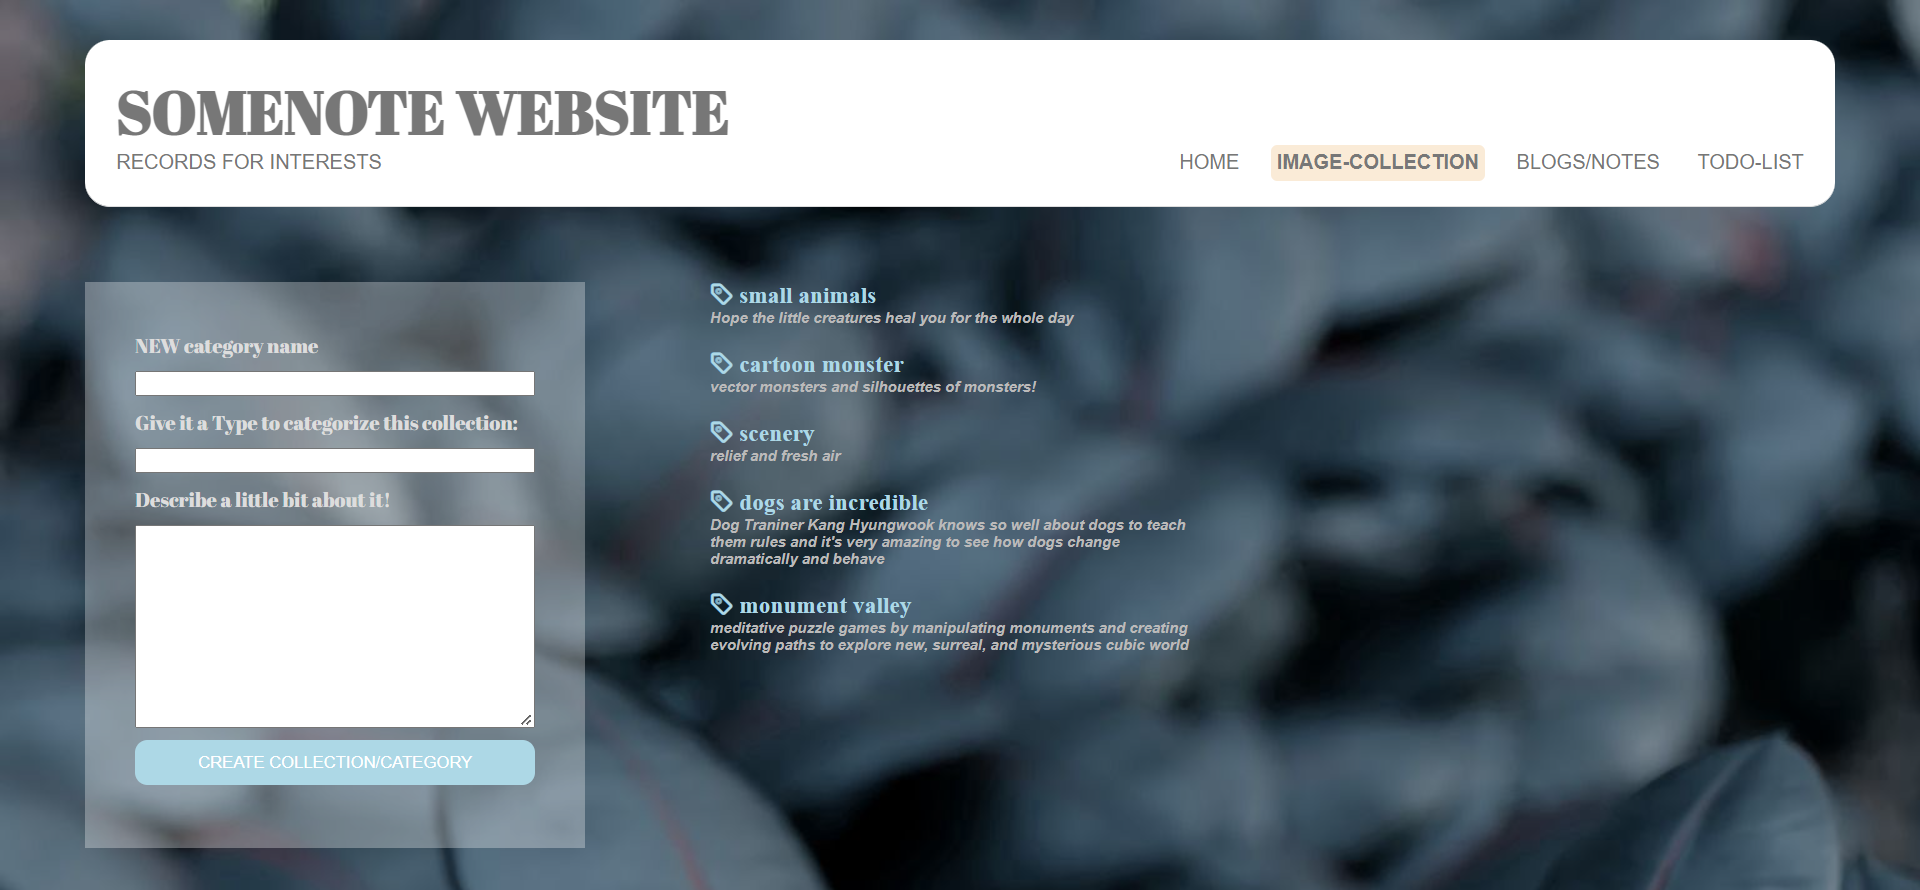
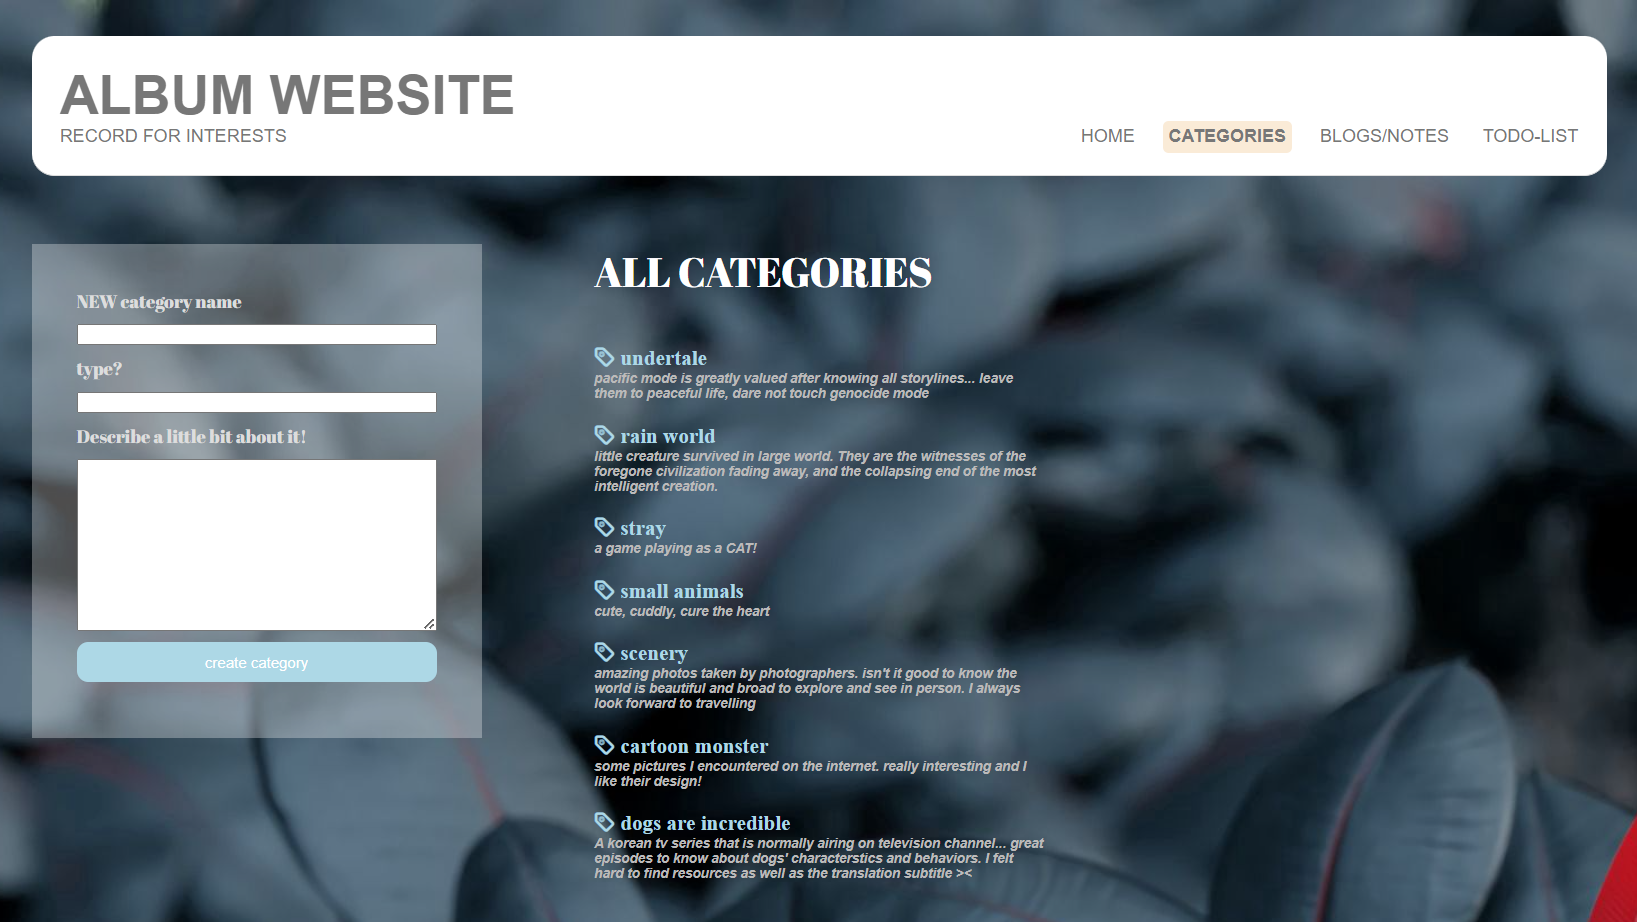
Updated

diff --git a/2023 Album Website/controllers/indexController.js b/2023 Album Website/controllers/indexController.js
@@ -145,6 +145,89 @@ const index_get = (req, res) => {
     .catch(err => console.log(err))
 }
 
+const specific_index_get = (req, res) => {
+    const tagName = req.params.tagName;
+    const typesArr = [];
+    const namesArr = [];
+
+    fetch(weatherURL, {
+        method: 'GET',
+    })
+    .then(response => response.json())
+    .then(data => {
+        let weaCode;
+        let tempCode;
+        let weatherNums = data['hourly'].weathercode;
+        let tempNums = data['hourly'].temperature_2m;
+        let now = new Date();
+        let hour = now.getHours();
+
+        // weather code adapted
+        if(hour==24){ 
+            weaCode = weatherNums[hour-1];
+            tempCode = tempNums[hour-1];
+        }
+        else{ 
+            weaCode = weatherNums[hour];
+            tempCode = tempNums[hour];
+        };  
+
+        // the object of that weather
+        let weatherObj = weatherIconCode.find( ({weathercode}) => weathercode.includes(weaCode) );
+        let bgposition = weatherObj.width+' '+weatherObj.height;
+
+        Category.find()
+        .then(result=>{
+            result.forEach(e => {
+                namesArr.push(e.name);
+
+                if(typesArr.indexOf(e.mediaType) < 0){
+                    typesArr.push(e.mediaType);
+                }            
+            })
+
+            // the only difference, find by tag name and regenerate based on it
+            Category.findOne({name: tagName})
+            .then((response)=>{
+                const selectDoc = tagName;
+
+                const [fileName, fileNumber] = loopImg(selectDoc);
+
+                Todo.find()
+                .then(result => {
+                    const todos = result;
+
+                    Blog.find()
+                    .then(result => {
+
+                        res.render('index', {
+                            title: 'Home', 
+                            typesArr, 
+                            bgposition, 
+                            tempCode, 
+                            blogs: result, 
+                            selectDoc,
+                            fileName,
+                            fileNumber,
+                            namesArr,
+                            todos
+                        })
+                    
+                    })
+                    .catch(err => console.log(err));
+                })
+                .catch(err => console.log(err));
+                
+            })
+            .catch(err => console.log(err));
+
+        })
+        .catch(err => console.log(err));
+
+    })
+    .catch(err => console.log(err))
+}
+
 const loopImg = (name) => {
     const fileName = fs.readdirSync('./public/imgs/'+name);
     const fileNumber = fileName.length;
@@ -152,6 +235,7 @@ const loopImg = (name) => {
 }
 
 module.exports = {
-    index_get
+    index_get,
+    specific_index_get
     
 }

diff --git a/2023 Album Website/controllers/allCateController.js b/2023 Album Website/controllers/allCateController.js
@@ -10,6 +10,16 @@ const cate_get = (req, res) => {
     
 }
 
+const specific_cate_get = (req, res) => {
+  const mediaName = req.params.mediaName;
+  Category.find({mediaType: mediaName})
+  .then(result => {
+    res.render('allCategories', {title: 'All-Categories', categories: result, mediaName});
+  })
+  .catch(err => console.log(err))
+
+}
+
 const cate_create = (req, res) => {
     const category = new Category(req.body);
     category.save()
@@ -48,6 +58,7 @@ const loopImg = (name) => {
 
 module.exports = {
     cate_get,
+    specific_cate_get,
     cate_create,
     cate_delete,
     cate_detail

diff --git a/2023 Album Website/routes/cateRoutes.js b/2023 Album Website/routes/cateRoutes.js
@@ -4,6 +4,7 @@ const cateController = require('../controllers/allCateController');
 const router = express.Router();
 
 router.get('/', cateController.cate_get);
+router.get('/media/:mediaName', cateController.specific_cate_get);
 router.post('/', cateController.cate_create);
 router.get('/:id', cateController.cate_detail);
 router.delete('/:id', cateController.cate_delete);

diff --git a/2023 Album Website/app.js b/2023 Album Website/app.js
@@ -22,7 +22,8 @@ app.use(express.urlencoded({ extended: true}));
 // routes
 app.get('/', indexController.index_get);
 
-// app.use('/', indexRoutes);
+// tag clickable
+app.get('/tags/:tagName', indexController.specific_index_get);
 
 app.use('/all-cates', cateRoutes);
 

diff --git a/2023 Album Website/README.md b/2023 Album Website/README.md
@@ -1,8 +1,9 @@
 # This is A Simple Localhost Website
 The main purpose of this website is to act like an album, along with todo lists displayed. <br>
+This project worked as my application and implementation of web languages and tools I've learnt. <br>
 The functionalities are simple, as listed below: <br>
-- Display Time, Date, Weather with Temperature
-- Create and Delete Categories (set of images), but unavailable for Update
+- Display Time, Date, Weather with Temperature (region set in API in advanced)
+- Create and Delete Categories (sets of images), unavailable for Update action
 - Todos / Blogs (they are both for plain text, though Blogs are meant to store longer texts)
 <br>
 <br>
@@ -20,9 +21,9 @@ The wallpaper and weather icon images are from public network. <br>
 <br>
 
 ## Why I wanted to build it
-This site I originally wanted to create is to show myself all the novels, comics, animes, video games (either mobile or on laptop), TV series, or any other artwork/stories through all kinds of media that I found really interesting and memorable, once I open this site.  <br>
+I basically just wanted to create a webpage with all my recordings/screenshots/any other media for my loved novels/games/animes/etc. <br>
 
-I used to keep photos on phone album, copy and paste on OneNote, or store in computer hard drive, which might not an eye-catching place for me to see (except for my posters on the wall). Now, I have this site, and everytime I open it, it randomly gives me some impressive and beautiful images I collected, and I can remind myself of every media that I read/watch/play, the moment I see them, I remember the happiness and stories happened to them. <br>
+Like some people may put posters on wall in their rooms, or set their desktop wallpaper / sidebar menu to be something they like. I did it in the form of website, and I can practice some web development skills in the meantime. <br>
 
 <br>
 Below are what it can and cannot do. 
@@ -37,10 +38,12 @@ The Home Page should initially look like:
 <img src="./demo-pictures/ini-page.png" style="width:120%;height:120%;">
 
 
-### Images, Blogs, Todos!
+### Images, Blogs, Todos Display
 
 - "Today's Featured Photos" will randomly choose an image collection to display. 
-> Notice that it only displays the first five images, so if you want to change the order, you need to change their file names (alphabetical order if that's also your case). 
+- You can change the set of images by clicking the other tags (generated once you give the name of the set of images)
+- Or access and see the media types (diamond icons) on the side
+> Notice that it only displays the first five images, so if you want to change the order, you need to change their file names (alphabetical / numerical order depends on what's in your case). 
 
 - "Latest Blogs" will display all the Blog's Titles and Blog's Snippets (you'll see when you create a blog). By clicking the "Latest Blogs" or blogs, you'll head into the all-blogs page.
 
@@ -50,9 +53,9 @@ The Home Page should initially look like:
 
 ### Create One Image-Collection, Blog, or ToDo!
 
-- Click the tags on the Navigation bar: they contain all the existing items and allow people to create new.
+- Click any option on the Navigation bar: it contains all the existing items and allows to create new.
 
-> A Big Thing to Notice... I haven't inplemented a way to update/edit the existing items, so if you want to edit, you will need to delete and create new. That's why I say this is really a simple local site.
+> A Big Thing to Notice... I haven't inplemented a way to update/edit the existing items, so if you want to edit, you will need to delete and create new. That's why I say this is really roughly designed and just applied what I have.
 <br>
 <br>
 
@@ -66,12 +69,17 @@ The Home Page should initially look like:
 <br>
 <br>
 
-> Image Collection; if its Media-Type is a new one, the new Media-Type will also be displayed on the side. 
+> Image Collection; all Media-Types will be displayed on the side of image tags at Home Page
 <br>
 <br>
 
 **Image-Collection Create Page**
 <img src="./demo-pictures/imageCollection-create-page.png" style="width:120%;height:120%;">
+<br>
+<br>
+
+**Image-Collection Media Categorized Page**
+<img src="./demo-pictures/imageCollection-specific-media.png" style="width:120%;height:120%;">
 <br>
 <br>
 
@@ -85,12 +93,18 @@ The Home Page should initially look like:
 
 The site is all in `px`, I want it to display on a big screen (on my laptop), so I did not include `em` to adjust tablet, phone or other screen size. <br>
 
-Month and Date Display is not well coded. I basically sliced the four characters "July" and then sliced the two number, if it changes to "August" and single number, it will not work. 
+Month and Date Display is not well coded. I basically sliced the four characters "July" and then sliced the two number, if it changes to "August" and single number, it will be problematic. 
 
 <br>
 <br>
 
 ## How to Use then?
+
+Localhost website can only show on your (or my) own computer, it does not have a public website link. Therefore it can only be downloaded and run the js file. In my case, I will open VS Code and run 'node app' on terminal (with online database connected). if you open the browser and type in 'localhost:3000' (mostly port 3000 is used), you should be able to see it working. <br>
+
+> I have to say sorry because using your own database is almost necessary... I don't always keep the demo database running, and then request has no response. The error would say 'This site can’t be reached'.
+
+<br>
 
 ### 1. Make Sure You Have Node.js Installed
 Actually, please refer to `package.json` and see all dependencies. When `package.json` is in the folder directory you desire, open terminal and type `npm install` to automatically look up your json file and download everything used.  <br>
@@ -129,7 +143,7 @@ Every text is basically stored in MongoDB, only images are stored in local drive
 
 > For example, one default collection is called "small animals", and one folder inside `/public/imgs` directory has the same name. 
 
-> Everytime you create a new Image-Collection, have to go create a folder with images first, otherwise it raises an error (and it has some point, it is designed to show some pictures, always having pictures is ideal! ). It is inconvenient, just in my case, I originally stored my favourite images in my drive, and reasonably it is a faster way for me to check out my images instead of opening File Explorer. 
+> Everytime you create a new Image-Collection, have to go create a folder with images first, otherwise it raises an error (and it has some point, it is designed to show some pictures, always having pictures is ideal! ). It is inconvenient, just in my case, I won't run it when nothing is stored in my drive!
 
 ### 4. Go for a Weather API
 In my case, I used a public weather api with my location (Hamilton, ON, Canada) here: [Open-Meteo](https://open-meteo.com/en/docs), and based on its reutrn `weathercode` value, I accordingly adjusted the background-position of weather image in `imgs/other` to display the correct weather icon. You may want to use your own icons (remember to change the file name to `Weather-Icons`) and APIs.
